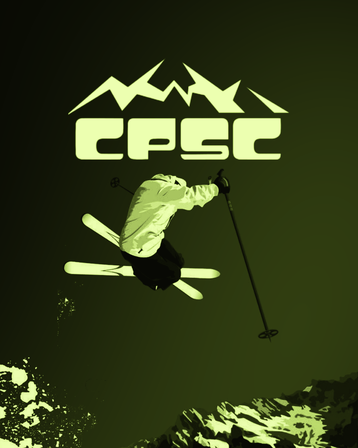
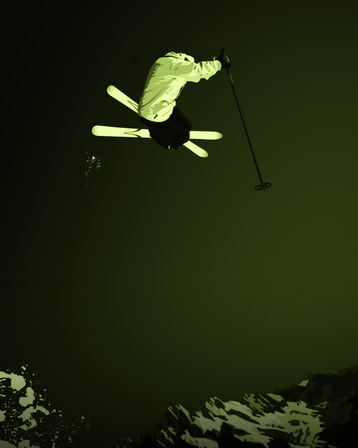
Fix poster pass on iOS 27: readable text, skier above the QR
Real-device findings: the poster uses foregroundColor/labelColor for its
text, centers the QR over the artwork, and tints the bottom strip from
the artwork. So: white text with lime labels on a dark pass, skier moved
into the open space above the QR, darker bottom for a dark strip, one
footer line with number, role and season. Adds a design stamp so phones
re-download passes after a design change.

Claude-Session: https://claude.ai/code/session_018psHG5pK3VZuBNwaue4M1u

diff --git a/supabase/functions/wallet/index.ts b/supabase/functions/wallet/index.ts
@@ -21,9 +21,9 @@ const SERVICE_KEY = env('SUPABASE_SERVICE_ROLE_KEY') || (() => {
 const SITE_URL = env('SITE_URL').replace(/\/$/, ''); // e.g. https://mr-albenberg.github.io/cpsc
 const ORG = env('ORG_NAME') || 'Central Pacific Ski Club';
 const SHORT = env('ORG_SHORT') || 'CPSC';
-const BG = env('PASS_BG') || '#ECFFB0';
-const FG = env('PASS_FG') || '#000000';
-const LABEL = env('PASS_LABEL') || '#4A5A12';
+const BG = env('PASS_BG') || '#121212';
+const FG = env('PASS_FG') || '#FFFFFF';   // the poster draws text in this color, over dark artwork
+const LABEL = env('PASS_LABEL') || '#ECFFB0'; // club lime
 
 const db = createClient(SUPABASE_URL, SERVICE_KEY, { auth: { persistSession: false } });
 
@@ -348,10 +348,7 @@ export async function buildApplePass(p: Profile, thumb: Buffer | null, code: str
       primaryFields: [{ key: 'name', label: 'LIVE TO SKI, LOVE TO PARTY', value: p.name }],
       footerFields: voided
         ? [{ key: 'status', value: 'Membership ended' }]
-        : [
-            { key: 'no', value: [no, p.is_admin ? 'Exec Board' : 'Member'].filter(Boolean).join(' · ') },
-            { key: 'season', value: `${season()} season` },
-          ],
+        : [{ key: 'info', value: [no, p.is_admin ? 'Exec Board' : 'Member', season()].filter(Boolean).join(' · ') }],
     },
     barcodes: [{ format: 'PKBarcodeFormatQR', message: QR(voided ? 'void' : p.serial), messageEncoding: 'iso-8859-1', altText: ORG }],
   };
@@ -360,8 +357,9 @@ export async function buildApplePass(p: Profile, thumb: Buffer | null, code: str
   const files: Record<string, Buffer> = {
     'pass.json': Buffer.from(JSON.stringify(passJson)),
     'icon.png': icon, 'icon@2x.png': icon, 'icon@3x.png': icon,
-    'logo.png': await siteImage('pass-logo.png'),          // the CPSC mountain logo from cpsconline.com
-    'logo@2x.png': await siteImage('pass-logo@2x.png'),
+    'logo.png': await siteImage('pass/primaryLogo.png'),   // the CPSC mountain logo from cpsconline.com, in lime
+    'logo@2x.png': await siteImage('pass/primaryLogo@2x.png'),
+    'logo@3x.png': await siteImage('pass/primaryLogo@3x.png'),
   };
   // Poster artwork + lime logo (Apple's docs name the poster image both ways, so include both)
   for (const base of ['background', 'artwork', 'primaryLogo']) {
@@ -386,6 +384,8 @@ async function settingsInfo() {
   return { code: titleCase(data?.week_word || 'POWDER'), updatedMs: data ? Date.parse(data.updated_at) : 0 };
 }
 const ms = (t?: string | null) => (t ? Date.parse(t) : 0);
+// Bump this (to the current time) whenever the pass design changes; phones then fetch the new look.
+const DESIGN_AT = Date.parse('2026-10-29T20:18:00Z');
 
 // The pass for a serial, as of now (null if it never existed)
 async function applePassBySerial(serial: string): Promise<{ buf: Buffer; modified: number } | null> {
@@ -393,7 +393,7 @@ async function applePassBySerial(serial: string): Promise<{ buf: Buffer; modifie
   const { data: p } = await db.from('profiles').select(PROFILE_COLS).eq('serial', serial).maybeSingle();
   if (p) {
     const s = await settingsInfo();
-    return { buf: await buildApplePass(p as Profile, await thumbBuffer(p.id), p.pass_test_code || s.code), modified: Math.max(ms(p.pass_updated_at), s.updatedMs) };
+    return { buf: await buildApplePass(p as Profile, await thumbBuffer(p.id), p.pass_test_code || s.code), modified: Math.max(ms(p.pass_updated_at), s.updatedMs, DESIGN_AT) };
   }
   const { data: v } = await db.from('voided_passes').select('*').eq('serial', serial).maybeSingle();
   if (v) {
@@ -446,7 +446,7 @@ async function appleWebService(req: Request, url: URL): Promise<Response | null>
     const { data: profs } = valid.length ? await db.from('profiles').select('serial,pass_updated_at').in('serial', valid) : { data: [] };
     const { data: voids } = await db.from('voided_passes').select('serial,voided_at').in('serial', serials);
     const mod: Record<string, number> = {};
-    for (const p of profs || []) mod[p.serial] = Math.max(ms(p.pass_updated_at), s.updatedMs);
+    for (const p of profs || []) mod[p.serial] = Math.max(ms(p.pass_updated_at), s.updatedMs, DESIGN_AT);
     for (const v of voids || []) mod[v.serial] = ms(v.voided_at);
     const changed = Object.keys(mod).filter((k) => mod[k] > since);
     if (!changed.length) return empty(204);
